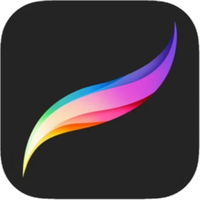
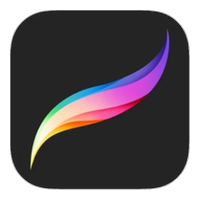
deploy: f9c9dd883ee2b0cf0bd4b266f9130409390cf268

Changed region(s): [[0.0, 0.0, 1.0, 1.0]]

diff --git a/index.html b/index.html
@@ -869,13 +869,6 @@ main {
 .icon-img     { transition: opacity 0.7s ease; filter: grayscale(1); }
 .icon-outline.revealed { opacity: 1; }
 .icon-img.revealed { opacity: 1; }
-.tool-icon.icon-padded .icon-outline,
-.tool-icon.icon-padded .icon-img {
-  width: 66%; height: 66%;
-  inset: 17%;
-  border-radius: 22%;
-  object-fit: contain;
-}
 .tool-icon-text {
   width: 58px;
   height: 58px;
@@ -1670,7 +1663,7 @@ footer { border-top-color: #e0e0e0; }
             <div class="tool-item"><div class="tool-icon"><img class="icon-outline" src="图标/ae_outline.png"><img class="icon-img" src="图标/ae.png"></div><span class="tool-name">After Effects</span></div>
             <div class="tool-item"><div class="tool-icon"><img class="icon-outline" src="图标/pr_outline.png"><img class="icon-img" src="图标/pr.png"></div><span class="tool-name">Premiere</span></div>
             <div class="tool-item"><div class="tool-icon"><img class="icon-outline" src="图标/id_outline.png"><img class="icon-img" src="图标/id.png"></div><span class="tool-name">InDesign</span></div>
-            <div class="tool-item"><div class="tool-icon icon-padded"><img class="icon-outline" src="图标/procreate_outline.png?v=2"><img class="icon-img" src="图标/procreate.png?v=2"></div><span class="tool-name">Procreate</span></div>
+            <div class="tool-item"><div class="tool-icon"><img class="icon-outline" src="图标/procreate_outline.png?v=3"><img class="icon-img" src="图标/procreate.png?v=3"></div><span class="tool-name">Procreate</span></div>
             <!-- Row 2: Blender DeepSeek ChatGPT GitHub Claude Codex -->
             <div class="tool-item"><div class="tool-icon"><img class="icon-outline" src="图标/blender_outline.png"><img class="icon-img" src="图标/blender.png"></div><span class="tool-name">Blender</span></div>
             <div class="tool-item"><div class="tool-icon"><img class="icon-outline" src="图标/deepseek_outline.png"><img class="icon-img" src="图标/deepseek.png"></div><span class="tool-name">DeepSeek</span></div>
